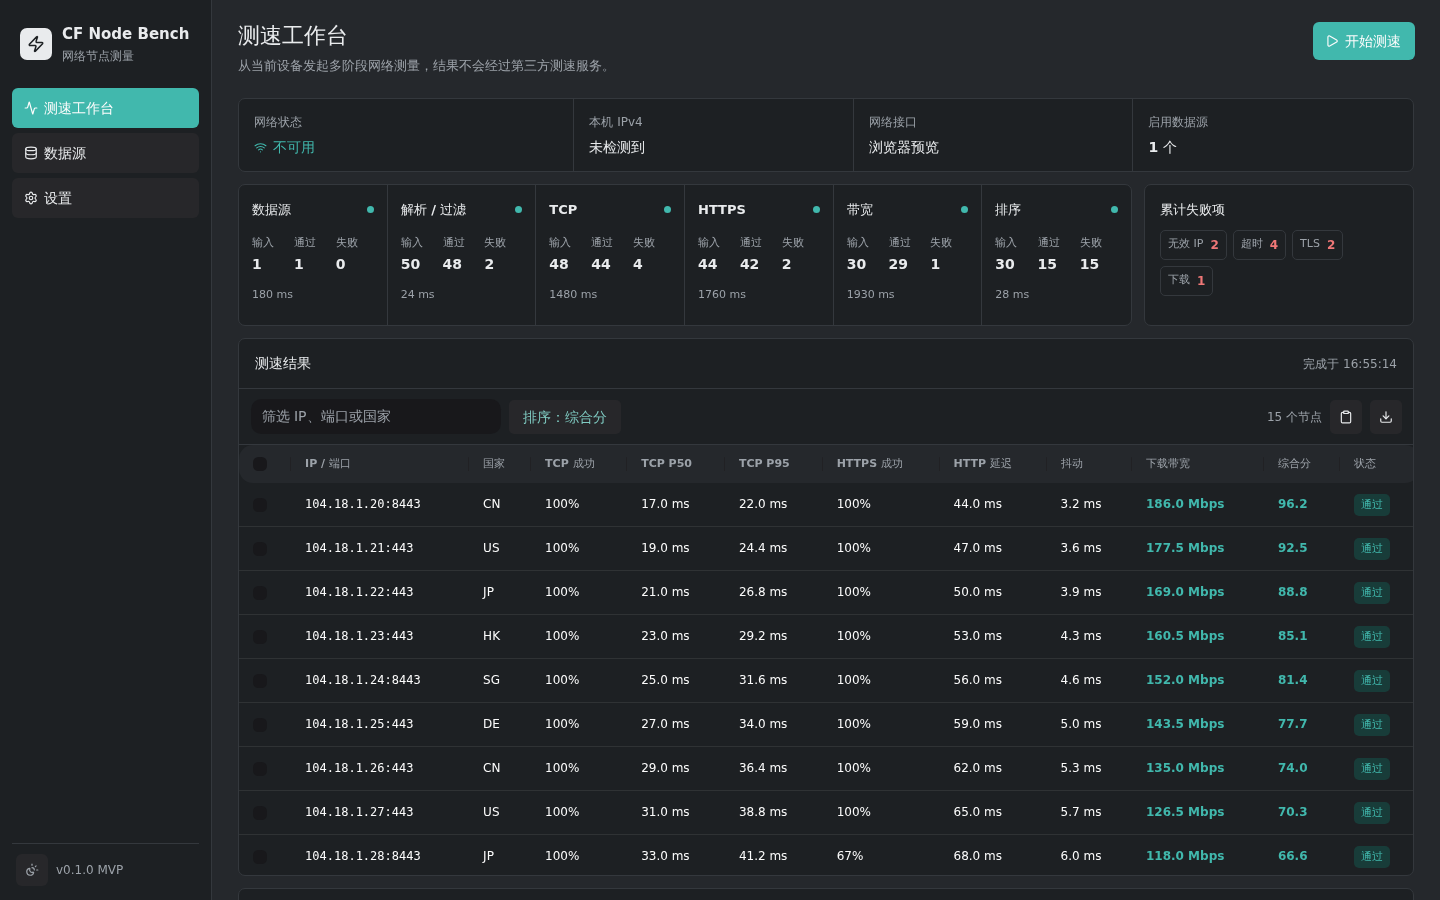
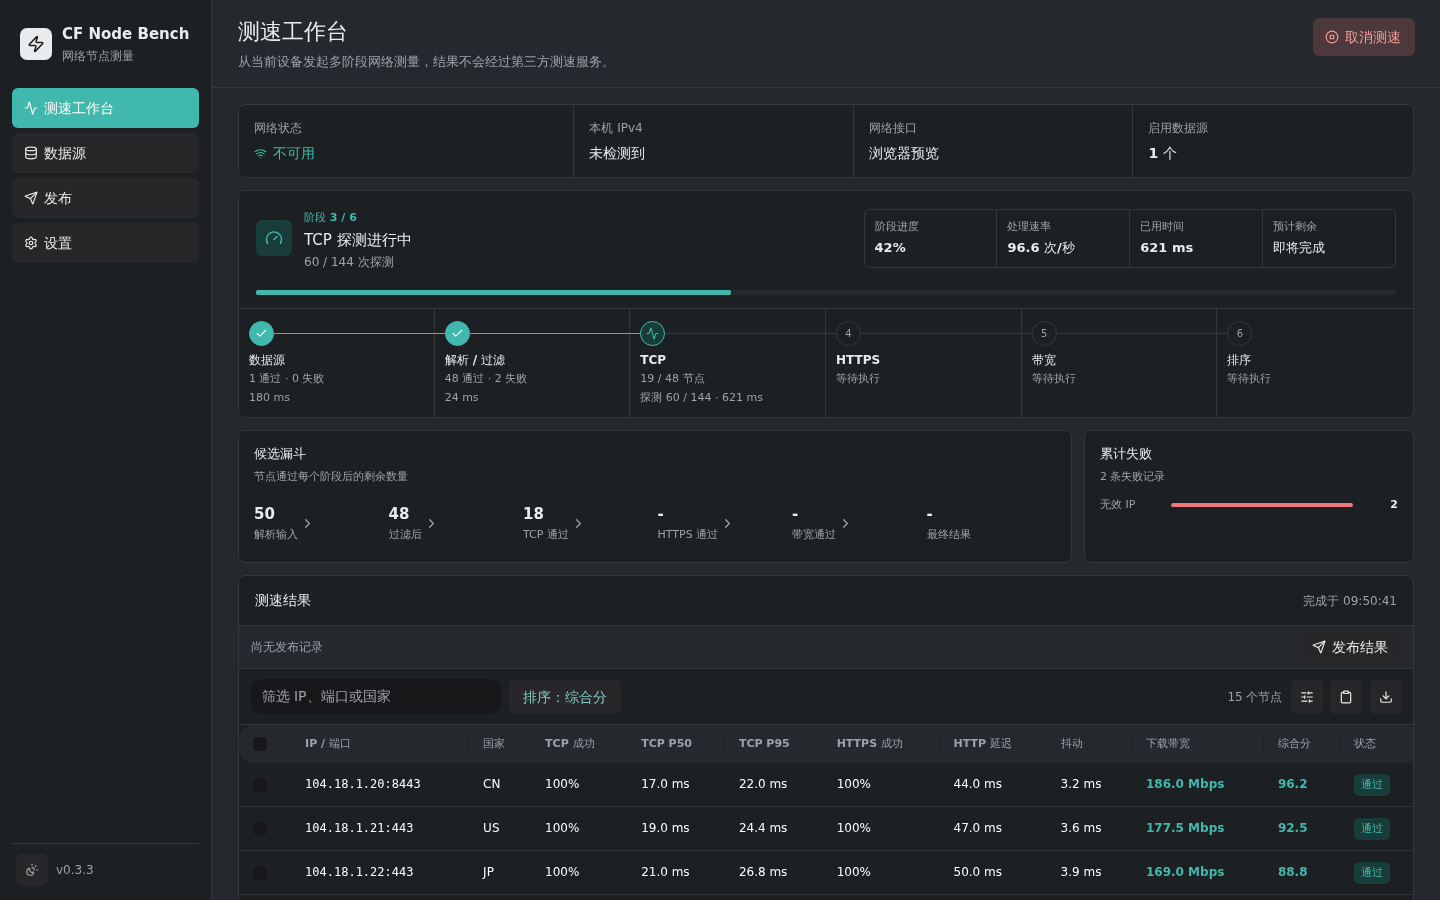
✨ feat: 提供固定 Gist Raw 地址

diff --git a/frontend/src/styles.css b/frontend/src/styles.css
@@ -24,7 +24,7 @@ button,input{font:inherit}
 .stage-list{display:grid;grid-template-columns:repeat(6,minmax(0,1fr));min-height:104px;border-top:1px solid var(--border)}.stage{position:relative;padding:12px 10px;min-width:0;border-right:1px solid var(--border)}.stage:last-child{border-right:0}.stage::after{content:"";position:absolute;left:35px;right:-12px;top:24px;height:1px;background:var(--border);z-index:0}.stage:last-child::after{display:none}.stage[data-state="completed"]::after{background:var(--accent)}.stage-node{position:relative;z-index:1;display:grid;place-items:center;width:25px;height:25px;margin-bottom:5px;border:1px solid var(--border);border-radius:50%;background:var(--surface);color:var(--muted);font-size:10px;font-style:normal}.stage[data-state="running"] .stage-node{border-color:var(--accent);background:var(--accent-soft);color:var(--accent)}.stage[data-state="completed"] .stage-node{border-color:var(--accent);background:var(--accent);color:white}.stage-copy{min-width:0}.stage-copy strong{display:block;font-size:12px;margin:0 0 2px}.stage-copy small,.stage-time{display:block;overflow:hidden;text-overflow:ellipsis;white-space:nowrap;font-size:11px;color:var(--muted)}.stage-time{height:14px;line-height:14px;margin-top:3px}
 .run-insights{display:grid;grid-template-columns:minmax(0,1fr) 330px;gap:12px}.candidate-panel,.failure-panel{min-height:118px;padding:13px 15px}.insight-heading{display:flex;align-items:start;justify-content:space-between;margin-bottom:11px}.insight-heading h2{font-size:13px;margin:0 0 2px}.insight-heading span{font-size:11px;color:var(--muted)}.funnel-list{display:flex;align-items:center;justify-content:space-between;gap:5px;min-height:52px}.funnel-step-wrap{display:flex;align-items:center;min-width:0;flex:1}.funnel-step-wrap>svg{flex:none;color:var(--muted);margin:0 2px}.funnel-step{display:grid;gap:2px;min-width:0}.funnel-step strong{font-size:15px;font-variant-numeric:tabular-nums}.funnel-step span{font-size:11px;color:var(--muted);white-space:nowrap}.failure-bars{display:grid;gap:5px}.failure-row{display:grid;grid-template-columns:64px minmax(0,1fr) 38px;align-items:center;gap:7px;height:16px}.failure-row>span{font-size:11px;color:var(--muted)}.failure-row>i{height:4px;background:var(--surface-muted);overflow:hidden;border-radius:2px}.failure-row>i>b{display:block;height:100%;background:var(--danger)}.failure-row>strong{font-size:11px;text-align:right;font-variant-numeric:tabular-nums}.empty-note{display:flex;align-items:center;gap:6px;font-size:11px;color:var(--muted);padding-top:8px}
 .results-panel{min-height:420px}.results-toolbar{display:flex;align-items:center;gap:8px;padding:10px 12px;border-bottom:1px solid var(--border)}.results-toolbar .search{width:250px}.results-toolbar .spacer{flex:1}.results-toolbar button{height:34px;border-radius:5px}.results-summary{font-size:12px;color:var(--muted)}
-.publication-strip{display:flex;align-items:center;gap:8px;min-height:42px;padding:6px 12px;border-bottom:1px solid var(--border);background:var(--surface-muted)}.publication-strip>.spacer,.publication-item .spacer{flex:1}.publication-strip>button{height:30px;border-radius:5px}.publication-item{display:flex;align-items:center;gap:7px;flex:1 1 0;min-width:0;height:30px;padding:0 4px 0 9px;border:1px solid var(--border);border-radius:5px;background:var(--surface)}.publication-item strong{font-size:11px;flex:none}.publication-item button{width:26px;height:26px;border-radius:4px;flex:none}.publication-state{display:flex;align-items:center;gap:5px;min-width:0;overflow:hidden;white-space:nowrap;font-size:11px;color:var(--muted)}.publication-state-text{min-width:0;overflow:hidden;text-overflow:ellipsis}.publication-raw-link{display:inline-flex;align-items:center;gap:2px;flex:none;color:var(--accent);text-decoration:none}.publication-raw-link:hover{text-decoration:underline}.publication-state.succeeded{color:var(--accent)}.publication-state.failed{color:var(--danger)}.publication-state.running,.publication-state.queued{color:var(--accent)}
+.publication-strip{display:flex;align-items:center;gap:8px;min-height:42px;padding:6px 12px;border-bottom:1px solid var(--border);background:var(--surface-muted)}.publication-strip>.spacer,.publication-item .spacer{flex:1}.publication-strip>button{height:30px;border-radius:5px}.publication-item{display:flex;align-items:center;gap:7px;flex:1 1 0;min-width:0;height:30px;padding:0 4px 0 9px;border:1px solid var(--border);border-radius:5px;background:var(--surface)}.publication-item strong{font-size:11px;flex:none}.publication-item button{width:26px;height:26px;border-radius:4px;flex:none}.publication-state{display:flex;align-items:center;gap:5px;min-width:0;overflow:hidden;white-space:nowrap;font-size:11px;color:var(--muted)}.publication-state-text{min-width:0;overflow:hidden;text-overflow:ellipsis}.publication-raw-link{display:inline-flex;align-items:center;gap:2px;flex:none;color:var(--accent);text-decoration:none}.publication-raw-link:hover{text-decoration:underline}.publication-state .publication-raw-copy{width:22px;height:22px;min-width:22px;border-radius:4px;flex:none}.publication-state.succeeded{color:var(--accent)}.publication-state.failed{color:var(--danger)}.publication-state.running,.publication-state.queued{color:var(--accent)}
 .copy-options{min-width:190px}.copy-options-list{display:grid;gap:9px;margin-top:10px}.copy-options-list .checkbox__content{font-size:12px}
 .table-root{border-radius:0!important;background:transparent!important}.table__scroll-container{max-height:430px}.table__content{min-width:1180px}.table__header{position:sticky;top:0;z-index:2}.table__column{height:38px;background:var(--surface-muted);font-size:11px;color:var(--muted);font-weight:600}.table__row{height:44px;cursor:pointer}.table__cell{font-size:12px;white-space:nowrap}.ip-cell{font-family:"SFMono-Regular",Consolas,monospace;font-size:12px}.metric-good{color:var(--accent);font-weight:650}.status-pill{display:inline-flex;align-items:center;height:22px;padding:0 7px;border-radius:5px;background:var(--accent-soft);color:var(--accent);font-size:11px;font-weight:600}
 .empty-results{display:grid;place-items:center;height:300px;color:var(--muted);text-align:center}.empty-results svg{margin-bottom:12px}.empty-results strong{display:block;color:var(--text);font-size:14px}.empty-results span{font-size:12px;display:block;margin-top:5px}

diff --git a/frontend/src/features/publish/PublishPage.tsx b/frontend/src/features/publish/PublishPage.tsx
@@ -160,7 +160,22 @@ function TargetHeading({icon,title,enabled,status,onEnabled}:{icon:React.ReactNo
 export function PublicationStatus({result}:{result:PublicationResult}){
   const text={queued:"等待发布",running:"正在发布",succeeded:"发布成功",failed:"发布失败",skipped:"已跳过"}[result.state];
   const description=`${text}${result.items>0?` · ${result.items} 条`:""}${result.message?` · ${result.message}`:""}`;
-  return <span className={`publication-state ${result.state}`}><span className="publication-state-text" title={result.message}>{description}</span>{result.url&&<a className="publication-raw-link" href={result.url} target="_blank" rel="noreferrer" aria-label="打开 Gist Raw 文件" onClick={event=>{if(window.runtime?.BrowserOpenURL){event.preventDefault();window.runtime.BrowserOpenURL(result.url!);}}}><ExternalLink size={11}/>Raw</a>}</span>;
+  const copyRawURL=async()=>{
+    if(!result.url)return;
+    try{await navigator.clipboard.writeText(latestGistRawURL(result.url));toast.success("已复制固定 Raw 地址；它始终指向 Gist 最新内容，更新后可能有短暂缓存");}
+    catch(reason){toast.danger(`复制失败：${String(reason)}`);}
+  };
+  return <span className={`publication-state ${result.state}`}><span className="publication-state-text" title={result.message}>{description}</span>{result.url&&<><a className="publication-raw-link" href={result.url} target="_blank" rel="noreferrer" aria-label="打开 Gist Raw 文件" onClick={event=>{if(window.runtime?.BrowserOpenURL){event.preventDefault();window.runtime.BrowserOpenURL(result.url!);}}}><ExternalLink size={11}/>Raw</a><span title="复制固定 Raw 地址"><Button className="publication-raw-copy" isIconOnly variant="tertiary" aria-label="复制固定 Gist Raw 地址" onPress={()=>void copyRawURL()}><Copy size={11}/></Button></span></>}</span>;
+}
+
+export function latestGistRawURL(rawURL:string){
+  try{
+    const value=new URL(rawURL);
+    if(value.hostname!=="gist.githubusercontent.com")return rawURL;
+    const parts=value.pathname.split("/").filter(Boolean); const rawIndex=parts.indexOf("raw");
+    if(rawIndex<0||parts.length<=rawIndex+2||!/^[0-9a-f]{7,64}$/i.test(parts[rawIndex+1]))return rawURL;
+    parts.splice(rawIndex+1,1); value.pathname=`/${parts.join("/")}`; return value.toString();
+  }catch{return rawURL;}
 }
 
 function TargetActions({target,busy,onTest}:{target:PublishTarget;busy:string;onTest:(target:PublishTarget)=>Promise<void>}){

diff --git a/frontend/tests/app.test.tsx b/frontend/tests/app.test.tsx
@@ -1,4 +1,5 @@
 import { cleanup, fireEvent, render, screen, waitFor } from "@testing-library/react";
+import { toast } from "@heroui/react";
 import { afterEach, describe, expect, it, vi } from "vitest";
 import { App } from "../src/App";
 import { ResultsTable } from "../src/features/results/ResultsTable";
@@ -160,10 +161,16 @@ describe("CF Node Bench workspace",()=>{
     retry.mockRestore();
   });
 
-  it("shows the Gist raw URL in publication results",()=>{
-    const summary={runId:"run-gist",startedAt:new Date().toISOString(),finishedAt:new Date().toISOString(),state:"completed",results:[],failures:{},publications:[{target:"gist",state:"succeeded",items:2,url:"https://raw.test/ip.txt",message:"Gist 文件已更新"}]} as RunSummary;
+  it("copies a stable latest-content URL for Gist results",async()=>{
+    const rawURL="https://gist.githubusercontent.com/linvva/abc123/raw/1234567890abcdef1234567890abcdef12345678/ip.txt";
+    const clipboard=vi.spyOn(navigator.clipboard,"writeText"); const success=vi.spyOn(toast,"success");
+    const summary={runId:"run-gist",startedAt:new Date().toISOString(),finishedAt:new Date().toISOString(),state:"completed",results:[],failures:{},publications:[{target:"gist",state:"succeeded",items:2,url:rawURL,message:"Gist 文件已更新"}]} as RunSummary;
     render(<ResultsTable summary={summary}/>);
-    expect(screen.getByRole("link",{name:"打开 Gist Raw 文件"})).toHaveAttribute("href","https://raw.test/ip.txt");
+    expect(screen.getByRole("link",{name:"打开 Gist Raw 文件"})).toHaveAttribute("href",rawURL);
+    fireEvent.click(screen.getByRole("button",{name:"复制固定 Gist Raw 地址"}));
+    await waitFor(()=>expect(clipboard).toHaveBeenCalledWith("https://gist.githubusercontent.com/linvva/abc123/raw/ip.txt"));
+    expect(success).toHaveBeenCalledWith("已复制固定 Raw 地址；它始终指向 Gist 最新内容，更新后可能有短暂缓存");
     expect(screen.getByText("Gist")).toBeInTheDocument();
+    clipboard.mockRestore(); success.mockRestore();
   });
 });

diff --git a/frontend/src/App.tsx b/frontend/src/App.tsx
@@ -36,7 +36,7 @@ export function App(){
       </nav>
       <div className="sidebar-foot">
         <span title={`切换主题：${theme}`}><Button isIconOnly variant="tertiary" aria-label={`当前主题：${theme}`} onPress={nextTheme}>{themeIcon}</Button></span>
-        <span>v0.3.2</span>
+        <span>v0.3.3</span>
       </div>
     </aside>
     <main className="main-content">{page==="run"?<RunWorkspace/>:page==="sources"?<SourcesPage/>:page==="publish"?<PublishPage/>:<SettingsPage/>}</main>

diff --git a/README.md b/README.md
@@ -37,7 +37,7 @@ IP:PORT#国家|HTTP44ms|186Mbps
 - Cloudflare `A`：默认模式，只发布端口为 443 的 IPv4，记录内容为纯 IP；`Proxied` 只在此模式生效。
 - Cloudflare `TXT`：发布全部最终节点，每个节点使用上述共享格式。
 - GitHub 仓库：通过 Contents API 创建或更新指定分支中的文件；内容没有变化时不会产生新提交。
-- GitHub Gist：使用独立 Token 更新用户预先创建的 Gist 中的指定文件，并在结果页提供 Raw 链接。内容没有变化时不发送更新请求；目标文件不存在时会新增，Gist 中的其他文件不会被修改或删除。更改文件名不会删除旧文件。应用不负责创建 Gist 或改变其可见性；“测试连接”只验证 Token 和 Gist 可访问，不执行写操作，写权限会在实际发布时验证。
+- GitHub Gist：使用独立 Token 更新用户预先创建的 Gist 中的指定文件，并在结果页提供当前版本 Raw 链接和固定地址复制。固定地址始终指向最新内容，更新后可能有短暂缓存。内容没有变化时不发送更新请求；目标文件不存在时会新增，Gist 中的其他文件不会被修改或删除。更改文件名不会删除旧文件。应用不负责创建 Gist 或改变其可见性；“测试连接”只验证 Token 和 Gist 可访问，不执行写操作，写权限会在实际发布时验证。
 - Telegram“仅汇总”：发送测速耗时、通过节点数及 Cloudflare、GitHub 仓库、Gist 发布状态，不包含 IP。
 - Telegram“汇总与节点列表”：先发相同汇总，再分段发送全部最终节点。
 - Telegram 默认由应用直连 Bot API。如果本地网络无法访问 Telegram，可选择“专属中继”，点击发布页中的“部署 Worker”即可查看完整引导、内置 `worker.js` 并一键复制；仓库文件位于 [`deploy/telegram-relay/worker.js`](deploy/telegram-relay/worker.js)，更多说明见[专属中继部署文档](deploy/telegram-relay/README.md)。“测试连接”只通过中继调用 `getChat`，不会发送测试消息。
@@ -106,8 +106,8 @@ wails build -tags webkit2_41
 推送以 `v` 开头的版本 Tag 会触发 `.github/workflows/release.yml`。流水线先运行 Go 与前端检查，再并行构建 Windows x64、Linux x64 和 macOS Universal 免安装压缩包，最后创建 GitHub Release 并生成 SHA-256 校验文件。
 
 ```bash
-git tag -a v0.3.1 -m "v0.3.1"
-git push origin v0.3.1
+git tag -a v0.3.3 -m "v0.3.3"
+git push origin v0.3.3
 ```
 
 ## 项目结构
